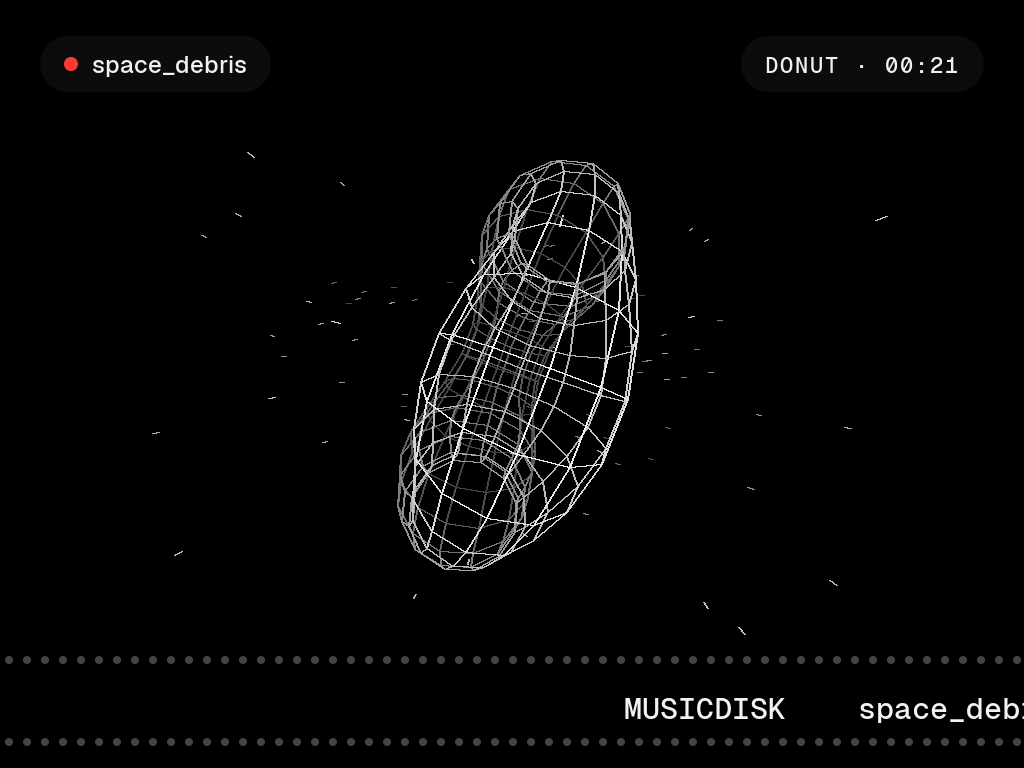
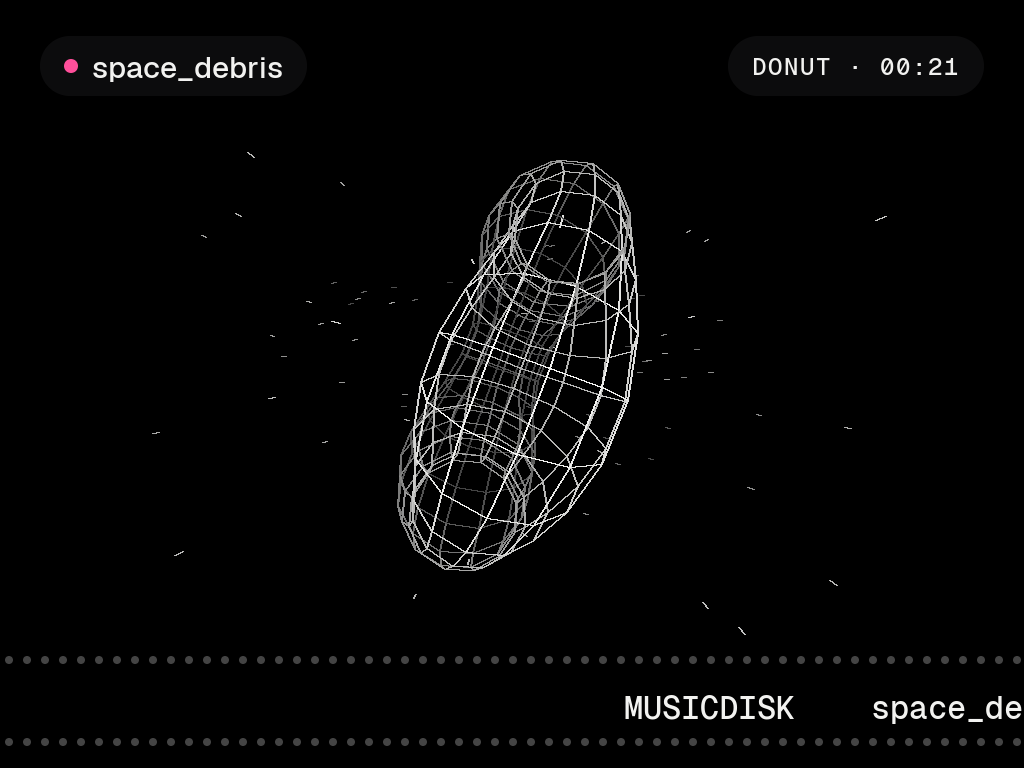
New look on Dot a598cba: bigger type, glass cards on a rose ground, a full-bleed dock, magenta accent; help as one card with L1/R1 tabs, settings re-laid out, muted channels say so; screenshots, also in pak.json

diff --git a/src/main.c b/src/main.c
@@ -365,10 +365,11 @@ static void draw_pattern(const struct xmp_module *m) {
   dot_header(D, a, b);
   dot_card(D, 40, 96, 944, 528);
   static const int xs[5] = { 76, 196, 386, 576, 766 };
-  dot_text(D, DOT_LABEL_T, "Row", xs[0], 124, DOT_LABEL, DOT_LEFT, 0);
+  dot_text(D, DOT_SMALL, "Row", xs[0], 124, DOT_LABEL, DOT_LEFT, 0);
   for (int i = 0; i < 4 && base + i < ps.nch; i++) {
-    char l[48]; chan_label(m, base + i, l, sizeof l);
-    dot_text(D, DOT_LABEL_T, l, xs[i + 1], 124, player_muted(base + i) ? DOT_DIM : DOT_LABEL, DOT_LEFT, 176);
+    char l[48]; int mu = player_muted(base + i);   // muted: says so, instead of the instrument
+    if (mu) snprintf(l, sizeof l, "%d Muted", base + i + 1); else chan_label(m, base + i, l, sizeof l);
+    dot_text(D, DOT_SMALL, l, xs[i + 1], 124, mu ? DOT_DIM : DOT_LABEL, DOT_LEFT, 172);
   }
   for (int k = -4; k <= 4; k++) {
     int r = ps.row + k, y = 166 + (k + 4) * 50, cur = k == 0;
@@ -398,19 +399,20 @@ static void draw_scopes(const struct xmp_module *m) {
   int page = scope_sel / 8, base = page * 8;
   SDL_Point pts[240];
   int shown = ps.nch - base < 8 ? ps.nch - base : 8, nrows = (shown + 1) / 2;   // the cards share the content area
-  int h = nrows ? (544 - 16 * (nrows - 1)) / nrows : 0, amp = (h - 60) / 2 - 4;
+  int h = nrows ? (544 - 16 * (nrows - 1)) / nrows : 0, amp = (h - 60) / 2 - 16;
   for (int k = 0; k < shown; k++) {
     int c = base + k, x = 40 + (k % 2) * 480, y = 96 + (k / 2) * (h + 16), w = 464;
     int mu = player_muted(c), sel = c == scope_sel;
     if (sel) dot_rect(D, x, y, w, h, DOT_R_ROW, DOT_PAPER, 255); else dot_card(D, x, y, w, h);
     char l[48]; chan_label(m, c, l, sizeof l);
-    dot_text(D, DOT_LABEL_T, l, x + 24, y + 16, sel ? 0x444444 : mu ? DOT_DIM : DOT_LABEL, DOT_LEFT, mu ? 300 : 416);
-    if (mu) dot_text(D, DOT_LABEL_T, "Muted", x + w - 24, y + 16, sel ? 0x444444 : DOT_LABEL, DOT_RIGHT, 0);
-    int cy = y + 52 + (h - 52) / 2, np = 0;
-    for (int i = 0; i <= w - 48 && np < 240; i += 2) {
+    int mw = mu ? dot_text_w(D, DOT_LABEL_T, "Muted") + 16 : 0;
+    dot_text(D, DOT_LABEL_T, l, x + 30, y + 24, sel ? 0x444444 : mu ? DOT_DIM : DOT_LABEL, DOT_LEFT, w - 60 - mw);
+    if (mu) dot_text(D, DOT_LABEL_T, "Muted", x + w - 30, y + 24, sel ? DOT_INK : DOT_TEXT, DOT_RIGHT, 0);
+    int cy = y + 60 + (h - 60) / 2, np = 0;
+    for (int i = 0; i <= w - 60 && np < 240; i += 2) {
       float v = chan_value(m, c, i) * amp * 2.3f;
       v = v > amp ? amp : v < -amp ? -amp : v;
-      pts[np].x = x + 24 + i; pts[np].y = cy - (int)v; np++;
+      pts[np].x = x + 30 + i; pts[np].y = cy - (int)v; np++;
     }
     Uint32 col = sel ? DOT_INK : mu ? DOT_DIM : DOT_TEXT;
     SDL_SetRenderDrawColor(R, col >> 16, col >> 8 & 255, col & 255, 255);
@@ -479,7 +481,7 @@ static void draw_browse(void) {
     char meta[32] = "";
     if (!e->dir) size_str(e->size, meta, sizeof meta);
     int playing = ps.loaded && !e->dir && !strcmp(e->name, now_name);
-    dot_row(D, 40, 96 + i * 94, 944, e->dir ? DOT_I_FOLDER : DOT_I_NOTE, e->title[0] ? e->title : e->name,
+    dot_row(D, 40, 96 + i * (DOT_ROW_H + 12), 944, e->dir ? DOT_I_FOLDER : DOT_I_NOTE, e->title[0] ? e->title : e->name,
             e->artist[0] ? e->artist : NULL, meta, k == l->cursor ? DOT_FOCUS : 0, playing);
   }
   if (pill[0]) dot_pill(D, 40, 572, pill, 1, 0, DOT_LEFT);
@@ -492,26 +494,56 @@ static void draw_browse(void) {
 }
 
 // --- help: what the buttons do -------------------------------------------------------------------------------------
-static void help_panel(int x, const char *label, const DotHint *h, int n) {
-  enum { PITCH = 64 };
-  int y = dot_panel(D, x, 96, 464, dot_panel_h(n * PITCH - 6), label);
+static int help_tab;   // 0 browsing, 1 playing: L1 R1
+
+// Tabs at the top right, the active one lit, between the L1 and R1 keys (as in Kino).
+static void draw_tabs(const char *const *names, int n, int active) {
+  int tx = DOT_W - DOT_MARGIN;
+  tx -= dot_text_w(D, DOT_KEY_WIDE, "R1") + 40; dot_key(D, tx, 25, "R1", 0, 0); tx -= 12;
+  for (int i = n - 1; i >= 0; i--) { tx -= dot_text_w(D, DOT_CHIP_T, names[i]) + 40; dot_chip(D, tx, 28, names[i], i == active ? DOT_ON : 0); tx -= 8; }
+  tx -= 4 + dot_text_w(D, DOT_KEY_WIDE, "L1") + 40; dot_key(D, tx, 25, "L1", 0, 0);
+}
+
+static void help_panel(const DotHint *h, int n) {
+  enum { PITCH = 68 };   // a key cap is 62 high
+  dot_card(D, 40, 96, 944, 30 + n * PITCH - 6 + 30);
+  int y = 96 + 30;
   for (int i = 0; i < n; i++, y += PITCH) {
-    dot_key(D, x + 30, y, h[i].key, 0, 2);
-    dot_text(D, DOT_UI, h[i].text, x + 180, y + (DOT_KEY - dot_line_h(D, DOT_UI)) / 2, DOT_TEXT, DOT_LEFT, 464 - 210);
+    dot_key(D, 70, y, h[i].key, 0, 2);
+    dot_text(D, DOT_UI, h[i].text, 240, y + (DOT_KEY - dot_line_h(D, DOT_UI)) / 2, DOT_TEXT, DOT_LEFT, 954 - 240);
   }
 }
 
 static void draw_help(void) {
   dot_ground(D);
   dot_title(D, "BUTTONS");
-  dot_header(D, NULL, "Musicdisk");
+  static const char *const names[2] = { "Browsing", "Playing" };
+  draw_tabs(names, 2, help_tab);
   static const DotHint browse[] = { { "A", "Open, play" }, { "B", "Back" }, { "L1 R1", "Jump by letter" },
     { "Y", "Shuffle folder" }, { "SELECT", "Settings" }, { "START", "To the player" }, { "MENU", "Quit" } };
   static const DotHint playing[] = { { "A", "Pause" }, { "B", "Browse" }, { "SELECT", "Next screen" },
     { "L1 R1", "Previous, next" }, { "<>", "Skip 10 s, effect" }, { "X Y", "Mute, solo" }, { "START", "Screen off" } };
-  help_panel(40, "Browse", browse, 7);
-  help_panel(520, "Playing", playing, 7);
-  dock4("A", "Got it", NULL, NULL, NULL, NULL, NULL, NULL);
+  if (help_tab) help_panel(playing, 7); else help_panel(browse, 7);
+  dock4("A", "Got it", "L1 R1", help_tab ? "Browsing" : "Playing", NULL, NULL, NULL, NULL);
+}
+
+// Text wrapped at spaces into lines of at most w px, lh apart; at most max lines (the last cut with "…").
+static void wrap_text(int st, const char *s, int x, int y, int w, int lh, Uint32 col, int max) {
+  char line[256];
+  for (int n = 0; *s && n < max; n++, y += lh) {
+    size_t take = strlen(s), fit = 0;
+    if (n + 1 < max && dot_text_w(D, st, s) > w) {
+      for (size_t k = 1; k <= take; k++) if (s[k] == ' ' || !s[k]) {
+        snprintf(line, sizeof line, "%.*s", (int)k, s);
+        if (dot_text_w(D, st, line) > w) break;
+        fit = k;
+      }
+      if (fit) take = fit;
+    }
+    snprintf(line, sizeof line, "%.*s", (int)take, s);
+    dot_text(D, st, line, x, y, col, DOT_LEFT, w);
+    s += take; while (*s == ' ') s++;
+  }
 }
 
 static void draw_settings(void) {
@@ -521,7 +553,7 @@ static void draw_settings(void) {
   enum { P = DOT_OPT_PITCH };
   int f[O_N]; for (int i = 0; i < O_N; i++) f[i] = i == opt_sel ? DOT_FOCUS : 0;
   int y = dot_panel(D, 40, 96, 464, dot_panel_h(3 * P), "Sound");
-  dot_opt_slider(D, 70, y, 404, "Stereo separation", set.separation / 100.f, f[O_SEP]);
+  dot_opt_slider(D, 70, y, 404, "Separation", set.separation / 100.f, f[O_SEP]);
   dot_opt(D, 70, y + P, 404, "Interpolation", INTERP_NAMES[set.interp], f[O_INTERP]);
   dot_opt_toggle(D, 70, y + 2 * P, 404, "Amiga filter", set.filter, f[O_FILTER]);
   y = dot_panel(D, 520, 96, 464, dot_panel_h(3 * P), "Brick");
@@ -538,9 +570,10 @@ static void draw_settings(void) {
   static const char *TITLE[O_N] = { "Stereo separation", "Interpolation", "Amiga filter", "Lights", "Screen off", "Buttons" };
   char t[80];
   if (opt_sel == O_SEP) snprintf(t, sizeof t, "%s · %d %%", TITLE[opt_sel], set.separation); else snprintf(t, sizeof t, "%s", TITLE[opt_sel]);
-  dot_card(D, 40, 374, 944, 136);
-  dot_text(D, DOT_UI, t, 76, 404, DOT_TEXT, DOT_LEFT, 872);
-  dot_text(D, DOT_BODY_S, HELP[opt_sel], 76, 448, DOT_LABEL, DOT_LEFT, 872);
+  int hy = 96 + dot_panel_h(3 * P) + DOT_GAP;   // under the two panels
+  dot_card(D, 40, hy, 944, 30 + 36 + 12 + 2 * 36 + 30);
+  dot_text(D, DOT_UI, t, 70, hy + 30, DOT_TEXT, DOT_LEFT, 884);
+  wrap_text(DOT_BODY_S, HELP[opt_sel], 70, hy + 78, 884, 36, DOT_LABEL, 2);
   dock4("<>", "Change", "B", "Back", NULL, NULL, NULL, NULL);
 }
 
@@ -559,7 +592,7 @@ static void settings_button(int b) {
     case O_FILTER: set.filter = !set.filter; break;
     case O_LEDS: set.leds = (set.leds + 4 + d) % 4; break;
     case O_SCREEN: set.screen_off = (set.screen_off + 5 + d) % 5; break;
-    case O_BUTTONS: if (b == BTN_A) { show_settings = 0; show_help = 1; } return;
+    case O_BUTTONS: if (b == BTN_A) { show_settings = 0; show_help = 1; help_tab = 0; } return;
   }
   settings_apply(); settings_save();
 }
@@ -626,7 +659,11 @@ static void seek(int ms) {
 }
 
 static void on_button(int b) {
-  if (show_help) { if (b == BTN_MENU) running = 0; help_seen(); return; }
+  if (show_help) {
+    if (b == BTN_L1 || b == BTN_R1 || b == BTN_LEFT || b == BTN_RIGHT) { help_tab = !help_tab; return; }
+    if (b == BTN_MENU) running = 0;
+    help_seen(); return;
+  }
   if (show_settings) { settings_button(b); return; }
   if (b == BTN_MENU) { running = 0; return; }
   if (screen == SCR_BROWSE) {
@@ -684,7 +721,8 @@ static const char *zip_test;
 static void shots(const char *dir, const char *module) {
   open_level();
   draw(); save_shot(dir, "browse");
-  show_help = 1; draw(); save_shot(dir, "help"); show_help = 0;
+  show_help = 1; help_tab = 0; draw(); save_shot(dir, "help");
+  help_tab = 1; draw(); save_shot(dir, "help-playing"); help_tab = 0; show_help = 0;
   show_settings = 1; draw(); save_shot(dir, "settings"); show_settings = 0;
   // a zip with two songs becomes two playlist items
   if (zip_test) {
@@ -702,10 +740,16 @@ static void shots(const char *dir, const char *module) {
   player_pump(900);
   player_get(&ps);
   for (int i = 0; i < 12; i++) update_vu(player_module());
+  screen = SCR_BROWSE; draw(); save_shot(dir, "browse-playing");
   screen = SCR_NOW; draw(); save_shot(dir, "now");
   flash(1, 1); draw(); save_shot(dir, "now-seek"); flash_until = 0;
   screen = SCR_PATTERN; draw(); save_shot(dir, "pattern");
   screen = SCR_SCOPES; scope_sel = 2; draw(); save_shot(dir, "scopes");
+  player_mute(1, 1);   // a muted channel: does it read as muted?
+  screen = SCR_NOW; draw(); save_shot(dir, "now-muted");
+  screen = SCR_PATTERN; draw(); save_shot(dir, "pattern-muted");
+  screen = SCR_SCOPES; scope_sel = 1; draw(); save_shot(dir, "scopes-muted"); scope_sel = 2;
+  player_mute(1, 0);
   screen = SCR_INFO; draw(); save_shot(dir, "info");
   info_scroll(INFO_PAGE); draw(); save_shot(dir, "info-2"); info_scroll(-1000);
   screen = SCR_DEMO;

diff --git a/src/info.c b/src/info.c
@@ -143,27 +143,27 @@ void info_draw(const struct xmp_module *m, const char *title) {
   const char *dot = m->type;
   snprintf(right, sizeof right, "%d CH", m->chn);
   dot_header(D, title, right);
-  dot_card(D, 40, 96, 944, 528);
+  dot_card(D, 40, 96, 944, 544);
   // the facts: label over value
   int pat = m->pat, ins = m->ins > 0 ? m->ins : m->smp;
-  static const int xs[5] = { 76, 440, 610, 740, 860 };
+  static const int xs[5] = { 76, 370, 560, 716, 858 };   // SPEED ends by 954: 30 px inside the card
   const char *labels[5] = { "Tracker", "Patterns", "Instr.", "Tempo", "Speed" };
   for (int i = 0; i < 5; i++) {
-    dot_text(D, DOT_LABEL_T, labels[i], xs[i], 122, DOT_LABEL, DOT_LEFT, 0);
+    dot_text(D, DOT_LABEL_T, labels[i], xs[i], 126, DOT_LABEL, DOT_LEFT, 0);
     if (i == 0) snprintf(v, sizeof v, "%s", dot);
     else if (i == 1) snprintf(v, sizeof v, "%d", pat);
     else if (i == 2) snprintf(v, sizeof v, "%d", ins);
     else if (i == 3) snprintf(v, sizeof v, "%d", m->bpm);
     else snprintf(v, sizeof v, "%d", m->spd);
-    dot_text(D, DOT_VALUE, v, xs[i], 156, DOT_TEXT, DOT_LEFT, i == 0 ? 340 : 0);
+    dot_text(D, DOT_VALUE, v, xs[i], 162, DOT_TEXT, DOT_LEFT, i == 0 ? 370 - 76 - 24 : 0);
   }
-  for (int x = 76; x <= 948; x += 18) dot_circle(D, x, 206, 2, DOT_TRACK);
+  for (int x = 76; x <= 948; x += 18) dot_circle(D, x, 212, 2, DOT_TRACK);
   // the text, INFO_PAGE + 1 lines
-  int y0 = 224;
+  int y0 = 230;
   for (int i = 0; i <= INFO_PAGE && top + i < nlines; i++) {
     Line *l = &lines[top + i];
     int y = y0 + i * LINE_H;
-    if (l->heading) { dot_text(D, DOT_LABEL_T, l->s, 76, y + 6, DOT_LABEL, DOT_LEFT, 0); continue; }
+    if (l->heading) { dot_text(D, DOT_LABEL_T, l->s, 76, y - 4, DOT_LABEL, DOT_LEFT, 0); continue; }
     if (!l->s[0] || !vga) continue;
     if (!l->tex) {
       SDL_Surface *s = TTF_RenderUTF8_Solid(vga, l->s, (SDL_Color){ 0xf2, 0xf2, 0xf0, 255 });

diff --git a/src/gfx.c b/src/gfx.c
@@ -4,12 +4,13 @@
 SDL_Renderer *R;
 Dot *D;
 const SDL_Color C_BG = { 0, 0, 0, 255 }, C_INK = { 0xf2, 0xf2, 0xf0, 255 }, C_RULE = { 0x44, 0x44, 0x44, 255 },
-                C_MUTE = { 0x8d, 0x8d, 0x8a, 255 }, C_ACC = { 0xff, 0x3b, 0x30, 255 };
+                C_MUTE = { 0x8d, 0x8d, 0x8a, 255 }, C_ACC = { 0xff, 0x4f, 0x9a, 255 };
 
 int gfx_init(SDL_Renderer *ren, const char *pak_dir) {
   R = ren;
   char p[800]; snprintf(p, sizeof p, "%s/fonts", pak_dir);
   if (!(D = dot_init(ren, p, DOT_ACCENT_MUSICDISK))) { fprintf(stderr, "fonts in %s: %s\n", p, SDL_GetError()); return -1; }
+  static const DotTheme t = DOT_THEME_MUSICDISK; dot_set_theme(D, &t);   // rose ground, magenta accent
   return 0;
 }
 
